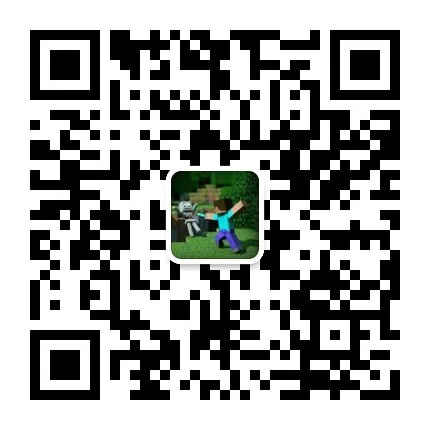
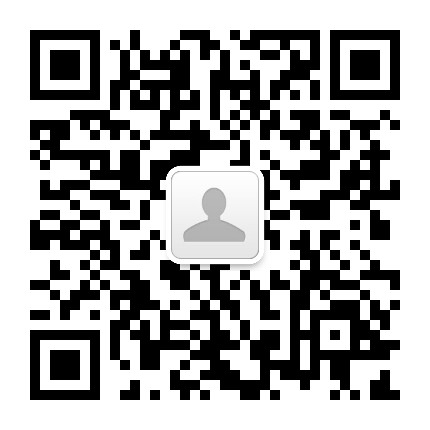
2018.12.21 add wechat

diff --git a/mysite/templetes/app_webtrans/wechat.html b/mysite/templetes/app_webtrans/wechat.html
@@ -1,6 +1,13 @@
 <div id="content" class="layui-col-xs12 layui-col-sm12 layui-col-md12">
-    <div id="wechat">
+    <div id="wechat" class="layui-card">
+        <div class="layui-card-header">
+            <h3>请扫描二维码关注公众号</h3>
+        </div>
+        <div class="layui-card-body">
+            <div>
+                <p>或微信搜索公众号：hcmw-yym （闫雅明）</p>
+                <img title="扫码关注公众号" style="max-width:300px;" src="/static/img/微信公众号二维码.jpg">
+            </div>
+        </div>
     </div>
-    <script type="text/javascript">
-    </script>
 </div>

diff --git a/mysite/app_webtrans/views.py b/mysite/app_webtrans/views.py
@@ -1,11 +1,12 @@
 # -*- coding: utf-8 -*-
 from __future__ import unicode_literals
+import hashlib
 import requests
 from django.shortcuts import render
 from django.urls import reverse
 from django.http import HttpResponse,HttpResponseRedirect,JsonResponse
 from app_webtrans.models import APP_FILE_ROOT,APP_TEMPLETE_ROOT
-from mysite.settings import BAIDUMAP
+from mysite.settings import BAIDUMAP,WECHAT
 
 def index(request):
     return HttpResponseRedirect(reverse('app_webtrans_tcptrans'))
@@ -29,12 +30,31 @@ def nat(request):
         }))
 
 def wechat(request):
-    return HttpResponse(render(request, APP_TEMPLETE_ROOT+'index.html',{\
-        'title':'微信应用',\
-        'display':'wechat',\
-        }))
+    if request.method == 'GET':
+        signature = request.GET.get('signature',None)  # 数字指纹
+        timestamp = request.GET.get('timestamp',None)  # 时间戳
+        nonce = request.GET.get('nonce',None)  # 随机数
+        echostr = request.GET.get('echostr',None)  # 随机字符串
+        token = WECHAT['token']  # 请按照公众平台官网\基本配置中信息填写
+        if not signature:  # 访问网页
+            return HttpResponse(render(request, APP_TEMPLETE_ROOT+'index.html',{\
+                'title':'微信应用',\
+                'display':'wechat',\
+                }))
+        else:  # 微信验证
+            li = [token, timestamp, nonce]  # 字典序排序后再加密，与消息中的指纹对照，相同则证明是正确的消息
+            li.sort()
+            sha1 = hashlib.sha1()
+            map(sha1.update, li)
+            hashcode = sha1.hexdigest()
+            if hashcode == signature:
+                return echostr
+            else:
+                return ""
+    elif request.method == 'POST':  # 微信API,微信消息为XML格式，回复也是XML
+        xml_message = request.raw_data
 
-def map(request):
+def mapa(request):  # 与内置函数名有冲突，要改名
     return HttpResponse(render(request, APP_TEMPLETE_ROOT+'index.html',{\
         'title':'地图应用',\
         'display':'map',\
@@ -63,7 +83,6 @@ def proxy(request):
             return HttpResponse(res)
         except Exception as e:
             return HttpResponse(e)
-        # return JsonResponse({'status':200})
     else:
         return HttpResponse(render(request, APP_TEMPLETE_ROOT+'index.html',{\
             'title':'代理访问',\

diff --git a/mysite/app_user/views.py b/mysite/app_user/views.py
@@ -102,10 +102,14 @@ def settings(request):
                         zipfile_name = str(upload_file.name)
                         column_slug = zipfile_name.split('.')[0]
                         # 1.save zipfile
-                        file = open(APP_TUTORIAL_ROOT+zipfile_name, 'wb+')
-                        for chunk in upload_file.chunks():
-                            file.write(chunk)
-                        file.close()
+                        if os.path.exists(APP_TUTORIAL_ROOT+zipfile_name):  # VPS上传大文件也是问题，非常缓慢，很难成功，用ftp直接传送
+                            for chunk in upload_file.chunks():
+                                pass
+                        else:
+                            file = open(APP_TUTORIAL_ROOT+zipfile_name, 'wb+')
+                            for chunk in upload_file.chunks():
+                                file.write(chunk)
+                            file.close()
                         # 2.remove old doc
                         if Column.objects.filter(slug=column_slug):
                             old_column = Column.objects.filter(slug=column_slug)[0]
@@ -171,9 +175,11 @@ def settings(request):
                             os.remove(file3.split('.')[0] + '.html')
                         # 7.remove zipfile
                         os.remove(APP_TUTORIAL_ROOT + str(upload_file.name))
-                        docProcess.zip(APP_TUTORIAL_ROOT + str(upload_file.name))
+                        if not REMOTE:
+                            docProcess.zip(APP_TUTORIAL_ROOT + column_slug)
                     messages.success(request, '上传成功！')
-                except:
+                except Exception as e:
+                    raise e
                     messages.error(request, '上传失败！')
                 return HttpResponseRedirect(request.path + '?doc=1')
             # 数据导出

diff --git a/mysite/modules/sockets/websocket_server.py b/mysite/modules/sockets/websocket_server.py
@@ -3,6 +3,7 @@
 import time
 import sys
 import os
+import logging
 from twisted.internet import reactor, protocol
 from twisted.python import log
 from autobahn.twisted.websocket import WebSocketServerProtocol,WebSocketServerFactory
@@ -20,22 +21,22 @@ from modules.robots.tulingApi import tuling_request
 class MyWebSocketProtocol(WebSocketServerProtocol):
 
     def onConnect(self, request):
-        print("Client connecting: {}".format(request.peer))
+        logging.error("Client connecting: {}".format(request.peer))
 
     def onOpen(self):
-        print("WebSocket connection open.")
+        logging.error("WebSocket connection open.")
 
     def onMessage(self, payload, isBinary):
         if isBinary:
-            print("Binary message received: {} bytes".format(len(payload)))
+            logging.error("Binary message received: {} bytes".format(len(payload)))
             text = None
         else:
-            print("Text message received: {}".format(payload.decode('utf8')))
+            logging.error("Text message received: {}".format(payload.decode('utf8')))
         for i in tuling_request(payload.decode('utf8')):
             self.sendMessage(i.encode('utf-8'), isBinary)
 
     def onClose(self, wasClean, code, reason):
-        print("WebSocket connection closed: {}".format(reason))
+        logging.error("WebSocket connection closed: {}".format(reason))
 
 
 if __name__ == '__main__':
@@ -44,3 +45,4 @@ if __name__ == '__main__':
     factory.protocol = MyWebSocketProtocol
     reactor.listenTCP(8007, factory)
     reactor.run()
+

diff --git a/mysite/modules/docProcess/docProcess.py b/mysite/modules/docProcess/docProcess.py
@@ -15,7 +15,7 @@ import logging
 pandoc不支持直接转换docx文档，先用mammoth把docx转换为html（保留表格），再用pandoc转换为md(markdown_strict保留html原文)
 mammoth可选择图片内嵌或存到外部（为了保证文档的完整性，建议内嵌，如此也降低了可编辑性和访问速度）
 shell执行mammoth，文件名不能带有&字符（shell本身的问题，特殊符号）
-mammoth会改文件名，甚至逗号等一般符号也给改掉（任何英文标点符号都会被删，只能用-或者中文标点）
+mammoth会改文件名，甚至逗号等一般符号也给改掉（任何英文标点符号都会被删，连中文符号都会被删，太无脑，只能用-）
 '''
 
 

diff --git a/mysite/mysite/urls.py b/mysite/mysite/urls.py
@@ -51,7 +51,7 @@ webtrans_urlpatterns = [
     url(r'^nat/$', app_webtrans_views.nat,name='app_webtrans_nat'),
     url(r'^wechat/$', app_webtrans_views.wechat,name='app_webtrans_wechat'),
     url(r'^map/content$', app_webtrans_views.map_content,name='app_webtrans_map_content'),
-    url(r'^map/$', app_webtrans_views.map,name='app_webtrans_map'),
+    url(r'^map/$', app_webtrans_views.mapa,name='app_webtrans_map'),
     url(r'^proxy/$', app_webtrans_views.proxy,name='app_webtrans_proxy'),
     url(r'^$', app_webtrans_views.index,name='app_webtrans'),
 ]

diff --git a/mysite/mysite/settings.py b/mysite/mysite/settings.py
@@ -31,6 +31,9 @@ BAIDUMAP = {
     'url':cf.get('baidumap','url'),
     'ak':cf.get('baidumap','ak'),
 }
+WECHAT = {
+    'token':cf.get('wechat','token'),
+}
 DATABASES = {
     'default': {
         'ENGINE': cf.get("db", "engine"),
